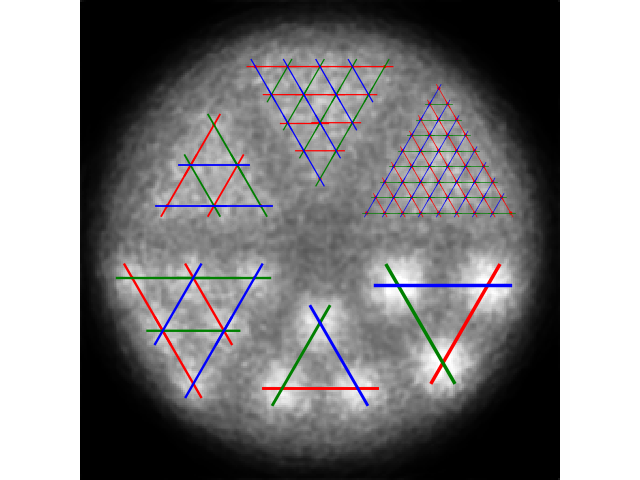
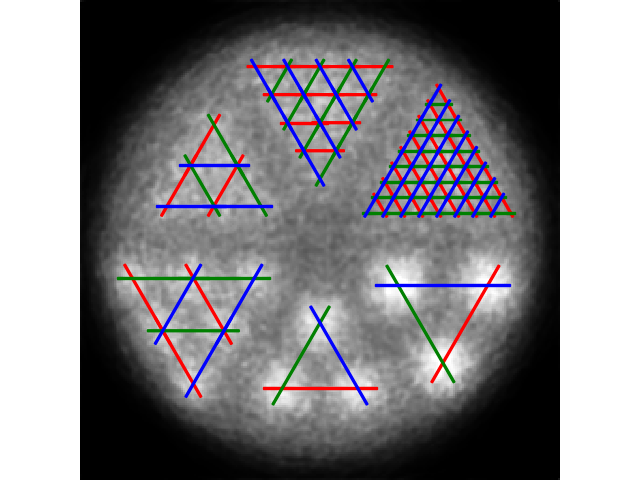
Option to save figure as file, better linewidth for line profile, enhanced text for user.

diff --git a/computeDerenzoValleyToPeak.py b/computeDerenzoValleyToPeak.py
@@ -548,7 +548,8 @@ def extractLineProfile(_im, _lpExt, _cSpotSize, _imSize, _roiRatio, _lpSampleRat
 	return segLp
 	
 	
-def computeSectorValleyToPeak(_segLp, _metric, _roiRatio, _vprHistos, _imSpacing):
+def computeSectorValleyToPeak(_segLp, _metric, _roiRatio, _vprHistos, _imSpacing, 
+	                          _savePath):
 	"""
 	Def.: Compute the valley to peak ratio of each sector using the metric _metric. 
 		The valley to peak ratio of a sector is defined as the mean of the valley to 
@@ -563,6 +564,7 @@ def computeSectorValleyToPeak(_segLp, _metric, _roiRatio, _vprHistos, _imSpacing
 	@_vprHistos (bool): If true, we show the histograms of VPRs.
 	@_imSpacing (List, 2 floats): Physical space, in x and y axes, between the image 
 		pixels.
+	@_savePath (Str): Path where to save the figure.
 	Return:
 		mean (1D numpy array, Float)
 		std (1D numpy array, Float)
@@ -599,7 +601,8 @@ def computeSectorValleyToPeak(_segLp, _metric, _roiRatio, _vprHistos, _imSpacing
 
 	# Plot histograms of vToP
 	if _vprHistos:
-		showValleyToPeakRatioHistograms(vToPhistoAll, _metric, _roiRatio, _imSpacing)
+		showValleyToPeakRatioHistograms(vToPhistoAll, _metric, _roiRatio, _imSpacing, \
+		                                _savePath)
 
 	# Compute resolvability of rods in each sector
 	resolv = []
@@ -680,13 +683,14 @@ def genJsonExample(_path):
 #########################################################################################
 # Visualization features:
 #########################################################################################
-def showTrianglePosOnImage(_im, _imSpacing, _lpConfig):
+def showTrianglePosOnImage(_im, _imSpacing, _lpConfig, _savePath):
 	"""
 	Def.: Show the triangles defined in _lpConfig superposed on _im.
 	@_im (2D numpy array): The image to study.
 	@_imSpacing (List, 2 floats): Physical space, in x and y axes, between the image 
 		pixels.
 	@_lpConfig (Dict): Configuration of the lines profile to extract.
+	@_savePath (Str): Path where to save the figure.
 	TODO: Possibly 1 or 1.5 pixels offset.
 	"""
 	# Parameters of visualization.
@@ -717,10 +721,13 @@ def showTrianglePosOnImage(_im, _imSpacing, _lpConfig):
 						edgecolor=color[i], facecolor=color[i])
 			ax.add_artist(draw_circle)
 	plt.tight_layout(pad=0)
-	plt.show()	
+	if _savePath is None:
+		plt.show()	
+	else:
+		plt.savefig(_savePath + "posTriang.png")
 	
 	
-def showSpotsPosOnImage(_im, _imSpacing, _lpConfig, _spotsCenter):
+def showSpotsPosOnImage(_im, _imSpacing, _lpConfig, _spotsCenter, _savePath):
 	"""
 	Def.: Show the spots position predicted from the configuration file superposed on 
 		_im. 
@@ -729,6 +736,7 @@ def showSpotsPosOnImage(_im, _imSpacing, _lpConfig, _spotsCenter):
 		pixels.
 	@_lpConfig (Dict): Configuration of the lines profile to extract.
 	@_spotsCenter (List of numpy arrays): Positions of spots centers.
+	@_savePath (Str): Path where to save the figure.
 	TODO: Possibly 1 on 1.5 pixels offset.
 	"""
 	# Put image in physical space.
@@ -754,10 +762,14 @@ def showSpotsPosOnImage(_im, _imSpacing, _lpConfig, _spotsCenter):
 										edgecolor="red", facecolor='red')
 			ax.add_artist(draw_circle)
 	plt.tight_layout(pad=0)
-	plt.show()
+	if _savePath is None:
+		plt.show()	
+	else:
+		plt.savefig(_savePath + "posSpot.png")
 	
 	
-def showLinesProfileOnImage(_im, _imSpacing, _lpConfig, _spotsCenter, _lpExtPos):
+def showLinesProfileOnImage(_im, _imSpacing, _lpConfig, _spotsCenter, _lpExtPos, 
+	                        _savePath):
 	"""
 	Def.: Show the lines profile defined in the configuration file superposed on _im.
 	@_im (2D numpy array): The image to study.
@@ -767,13 +779,14 @@ def showLinesProfileOnImage(_im, _imSpacing, _lpConfig, _spotsCenter, _lpExtPos)
 	@_spotsCenter (List of numpy arrays): Positions of spots centers.
 	@_lpExtPos (list of lists): Edges of every line profile arranged as
 				[nbSector, nbAngle, nbRow, nbLpCurrSectorAndRow, ptsExt, nDim]
+	@_savePath (Str): Path where to save the figure.
 	TODO: Possibly 1 on 1.5 pixels offset.
 	TODO: Add an option for seeing subset of line profile?
 	"""
 	# Parameters of visualization.
 	color = ['r', 'g', 'b']	
 	linewidthChoice = _lpConfig["spotsSize"]
-	
+
 	# Put image in physical space.
 	tmpX = _im.shape[0] * _imSpacing[0] / 2.0
 	tmpY = _im.shape[1] * _imSpacing[1] / 2.0
@@ -796,13 +809,23 @@ def showLinesProfileOnImage(_im, _imSpacing, _lpConfig, _spotsCenter, _lpExtPos)
 		for cAng in range(3):
 				for cRowLp in _lpExtPos[cSec][cAng]:
 					for cLp in cRowLp:
-						plt.plot(cLp[:, 0], cLp[:, 1],
-									linewidth=linewidthChoice[cSec], color=color[cAng])
+						lpPerpDir = (cLp[1, :] - cLp[0, :])[::-1] \
+						             * np.array([-1.0, 1.0])
+						lpPerpDir /= np.linalg.norm(lpPerpDir)
+						oneSide = cLp + 0.5 * _imSpacing[0] * lpPerpDir
+						otherSide = cLp - 0.5 * _imSpacing[0] * lpPerpDir
+						plt.fill(np.append(oneSide[:, 0], otherSide[::-1, 0]), \
+						         np.append(oneSide[:, 1], otherSide[::-1, 1]), \
+						         color=color[cAng])
 	plt.tight_layout(pad=0)
-	plt.show()	
+	if _savePath is None:
+		plt.show()	
+	else:
+		plt.savefig(_savePath + "lineProfile.png")
 
 
-def showValleyToPeakRatioHistograms(_vToPhistoAll, _metric, _roiRatio, _imSpacing):
+def showValleyToPeakRatioHistograms(_vToPhistoAll, _metric, _roiRatio, _imSpacing, \
+	                                _savePath):
 	'''
 	Def: Display valley-to-peak ratios histograms for each phantom's sections.
 	@_vToPhistoAll (List of lists): All VPR values, divided by phantom section.
@@ -812,6 +835,7 @@ def showValleyToPeakRatioHistograms(_vToPhistoAll, _metric, _roiRatio, _imSpacin
 	    for the two spots and the second is for the background/valley.
 	@_imSpacing (List, 2 floats): Physical space, in x and y axes, between the image 
 		pixels.
+	@_savePath (Str): Path where to save the figure.
 	'''
 	fig, axs = plt.subplots(3, 3)
 	fig.set_size_inches(18.5, 10.5)
@@ -862,7 +886,10 @@ def showValleyToPeakRatioHistograms(_vToPhistoAll, _metric, _roiRatio, _imSpacin
 
 	plt.subplots_adjust(left=0.05, right=0.95, top=0.95, bottom=0.05, wspace=0.20, 
 	                    hspace=0.40)
-	plt.show()
+	if _savePath is None:
+		plt.show()	
+	else:
+		plt.savefig(_savePath + ".png")
 
 
 def cropImage(_im, _imSpacing, _minIntensityFrac=0.02):
@@ -979,6 +1006,10 @@ def parserCreator():
 	parser.add_argument('--showVprHistos', action='store_true', required=False,\
 						dest='showVprHistos', default=False, \
 						help='Show valley-to-peak ratio histograms.')
+	parser.add_argument('--pathForFigures', type=str, required=False,\
+						dest='pathForFigures', default=None, \
+						help='The figures are now saved as file(s) at the place of '
+						     'showing them.')
 	# parser.add_argument('-amideRotMatrix', nargs="+", type=float, required=False,\
 	# 					dest='amideRotMatrix', default=None, \
 	# 					help='The rotation matrix, found with Amide, to reorient that '
@@ -1036,12 +1067,14 @@ if __name__=='__main__':
 	lpExtPos, spotsCenter = genLpExtremumPos(lpConfig)
 	
 	if args.showTriangPos == True:
-		showTrianglePosOnImage(listIm[args.imageShown], imSpacing, lpConfig)
+		showTrianglePosOnImage(listIm[args.imageShown], imSpacing, lpConfig, \
+		                       args.pathForFigures)
 	if args.showSpotsPos == True:
-		showSpotsPosOnImage(listIm[args.imageShown], imSpacing, lpConfig, spotsCenter)
+		showSpotsPosOnImage(listIm[args.imageShown], imSpacing, lpConfig, spotsCenter, \
+		                    args.pathForFigures)
 	if args.showLinesProfile == True:
 		showLinesProfileOnImage(listIm[args.imageShown], imSpacing, lpConfig, 
-								spotsCenter, lpExtPos)
+								spotsCenter, lpExtPos, args.pathForFigures)
 	
 	if args.saveResults != None:
 		resultArray = -np.ones(shape=(len(listIm), 6))
@@ -1049,8 +1082,6 @@ if __name__=='__main__':
 	for l, im in enumerate(listIm):
 		segLp = extractAllLineProfile(im, lpExtPos, lpConfig["spotsSize"], imSpacing, \
 		                              args.roiRatio)
-		results = computeSectorValleyToPeak(segLp, args.metric, args.roiRatio, 
-		                                    args.showVprHistos, imSpacing)
 		
 		if args.stackofIt == True:
 			# Special cases where a 3D numpy array contains multiple 2D images that are 
@@ -1062,6 +1093,14 @@ if __name__=='__main__':
 			cImName = f"{fName}, iteration {cIte} of {maxIte}" 
 		else:
 			cImName = args.imPath[l]
+
+		if args.pathForFigures is None:
+			pathForFigures = None 
+		else:
+			pathForFigures = args.pathForFigures + "histo" + cImName.replace(" ", "_")
+		results = computeSectorValleyToPeak(segLp, args.metric, args.roiRatio, 
+		                                    args.showVprHistos, imSpacing, 
+		                                    pathForFigures)
 
 		if args.saveResults == None:
 			print("\n=== Results ===")

diff --git a/README.md b/README.md
@@ -5,9 +5,13 @@ Based on the suggestions in [1] for describing PET spatial resolution, this scri
 
 
 # Implementation of resolvability
-Here, resolvability is defined as the percent of valid pairs of spots in a sector that respect the Rayleigh Criterion. A valid pair of spots is defined as two spots in the sector that are distanced by a valley with the same width as the spots of that sector. This means that spots that are in the frontier of the sector are less sampled.
+Here, resolvability is defined as the percent of valid pairs of spots in a sector that respect the Rayleigh Criterion. 
+A valid pair of spots is defined as two spots in the sector that are distanced by a valley with the same width as the spots of that sector. 
+This means that spots that are in the frontier of the sector are less sampled.
 
-The evaluation of the Rayleigh Criterion for a pair of spots can be modulated in two ways. First, the user can define the portion of the region of interest to consider for the valley and for the peaks. Second, the user can use three metrics: minimum of the valley vs mean of the maximum of the peaks, mean of the valley vs mean of the peaks and mean of the valley vs maximum of the valley.   
+The evaluation of the Rayleigh Criterion for a pair of spots can be modulated in two ways. 
+First, the user can define the portion of the region of interest to consider for the valley and for the peaks. 
+Second, the user can use three metrics: minimum of the valley vs mean of the maximum of the peaks, mean of the valley vs mean of the peaks and mean of the valley vs maximum of the valley.   
 
 
 # How to use
@@ -26,20 +30,35 @@ python3 computeDerenzoValleyToPeak.py \
 - Fifth line: Let the results be printed in the terminal and show histograms of each sector for every 2D images.
 
 ## Step-by-step with (too?) many words
-Orientation and dimensions order are different among the images format. For this reason, we have provided some basic tools to describe the sectors in the system used in this script.
+Orientation and dimensions order are different among the images format. 
+For this reason, we have provided some basic tools to describe the sectors in the system used in this script.
 
 ### Create the template for the configuration file
-First, the argument `--genJsonExample` can be used to generate the template of the configuration file, in the json format, which describes the sectors. Sectors are defined using three parameters: the size of its spots, its number of rows and the $(x, y)$ position of the center of the three spots that encompass the sector vertices. Only the spots included in the triangle formed by those three spots are considered in this script. If you include rows with missing spots, the resolvability will be inaccurate.
+First, the argument `--genJsonExample` can be used to generate the template of the configuration file, in the json format, which describes the sectors. 
+Sectors are defined using three parameters: the size of its spots, its number of rows and the $(x, y)$ position of the center of the three spots that encompass the sector vertices. 
+Only the spots included in the triangle formed by those three spots are considered in this script. 
+Note that sometimes Hot Spot phantoms have sections with their last external row having fewer points than their penultimate row. 
+The spots at the edges of the penultimate row should be used to place two of the three vertices of the triangle, ensuring that a triangle that does not enclose missing hot spots.
+If you include rows with missing spots, the resolvability will be inaccurate. 
 
-The following assume that your image format is supported by the script. See the section titled `Image format` if you are not sure.
+The following assume that your image format is supported by the script. 
+See the section titled `Image format` if you are not sure.
 
 ### Validate the position of the triangle vertices 
-While the first two parameters of the configuration file should be known by the user, the last one is dependent on the script internal orientation/order of the $(x, y)$ axes. Thus, it is often more straight forward to use the `--showTriangPos` option and mouse-over to get the values needed in the configuration file. In the following image, you can see the results of that option when the configuration file was correctly defined. The first position, show in red, should be the one nearest to the phantom center. The second position, shown in blue, should be the next vertex by going clockwise (relative to the sector center). The third position, shown in green, should be the final vertex again by going clockwise.
+While the first two parameters of the configuration file should be known by the user, the last one is dependent on the script internal orientation/order of the $(x, y)$ axes. 
+It is therefore **not** recommended to use another software to find the $(x, y)$ positions.
+Currently, it is often more straight forward to use the `--showTriangPos` option and mouse-over to get the values needed in the configuration file. 
+In the following image, you can see the results of that option when the configuration file was correctly defined. 
+The first position, show in red, should be the one nearest to the phantom center. 
+The second position, shown in blue, should be the next vertex by going clockwise (relative to the sector center). 
+The third position, shown in green, should be the final vertex again by going clockwise.
 
 <img src='preview/01_posTriang.png' alt="posTriang" width='300'> 
 
 ### Validate the configuration file
-Assuming that the position of the triangle vertices is done, you can now use the option `--showTriangPos` to see where the spots are expected to be. The next image shows what to expect. If you have correctly done the first step and the red circle are wrongly placed, it could be due to the two others parameters of the configuration file.
+Assuming that the position of the triangle vertices is done, you can now use the option `--showTriangPos` to see where the spots are expected to be. 
+The next image shows what to expect. 
+If you have correctly done the first step and the red circle are wrongly placed, it could be due to the two others parameters of the configuration file.
 
 <img src='preview/02_posSpot.png' width='300'> 
 
@@ -49,7 +68,8 @@ A last sanity check can be done using the `--showLinesProfile` options which wil
 <img src='preview/03_lineProfile.png' width='300'> 
 
 # Output 
-By default, the resolvability of each sector will be printed in the terminal. Here is an example of what to expect:
+By default, the resolvability of each sector will be printed in the terminal. 
+Here is an example of what to expect:
 ~~~
 === Results ===
 Image             : recon_step10_0_500.npy, iteration 30 of 500
@@ -75,9 +95,14 @@ For a more in-depth description of the resolvability of each sector, you can use
 # Image format
 
 ## Dimensionality
-Currently, this script only analyzes 2D images. If 3D images are provided, the user is expected to provide a range of z index to consider. The script then sums the 2D slices of the given range to create a 2D image to analyze. For the analysis of a single slice, you can put twice the z index in the -z argument, for instance `-z 128 128` will only select the slice 128.
+Currently, this script only analyzes 2D images. 
+If 3D images are provided, the user is expected to provide a range of z index to consider. 
+The script then sums the 2D slices of the given range to create a 2D image to analyze. 
+For the analysis of a single slice, you can put twice the z index in the -z argument, for instance `-z 128 128` will only select the slice 128.
 
 ## Format
-The following formats are (at least partially) supported: dicom, dicom directory, binary (float32/float64) with or without header offset, CASToR and 2D/3D numpy. In all cases, the image spatial offset is ignored currently. 
+The following formats are (at least partially) supported: dicom, dicom directory, binary (float32/float64) with or without header offset, CASToR and 2D/3D numpy. 
+In all cases, the image spatial offset is ignored currently. 
 
-The script can process multiple files with one command by providing multiple arguments to `-f`. This can be useful if one desire to analyze multiple iterations of a given reconstruction.
+The script can process multiple files with one command by providing multiple arguments to `-f`. 
+This can be useful if one desire to analyze multiple iterations of a given reconstruction.
